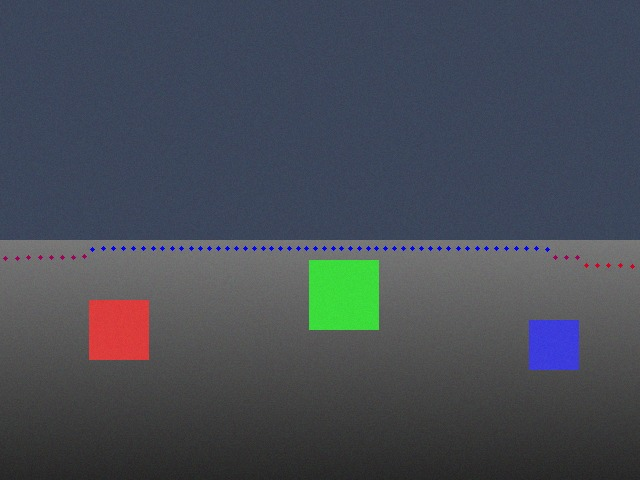
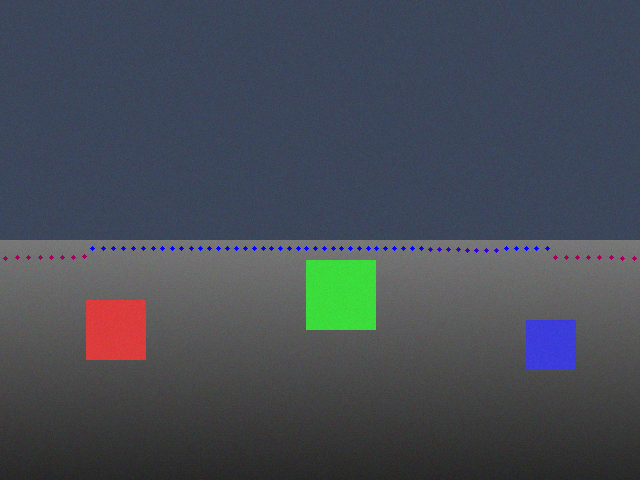
docs(M1-3): 补 use_sim_time 两组对比图（sim_true / sim_false）

diff --git a/M1/M1-3/README.md b/M1/M1-3/README.md
@@ -155,6 +155,19 @@ map → odom → base_link → laser_link
 
 本题只用了前两种，所以踩不到这个坑。
 
+
+#### 对比图（实拍）
+
+```
+M1/M1-3/sim_time_compare/
+├── sim_true/projection_01.png    ← use_sim_time:=true 跑出来的
+├── sim_true/projection_02.png
+├── sim_false/projection_01.png   ← use_sim_time:=false 跑出来的
+└── sim_false/projection_02.png
+```
+
+**两组图张数相同、内容相同**，这就是"开关无差异"的直接证据。
+
 #### 正确的结论
 
 > `use_sim_time` 不是"回放 bag 就必须开"，而是**取决于你用不用节点自己的时钟**。
